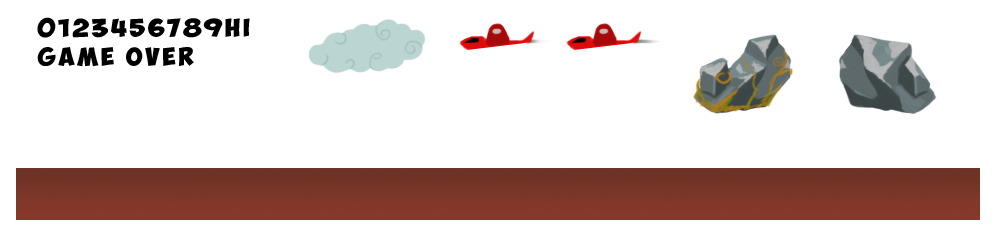
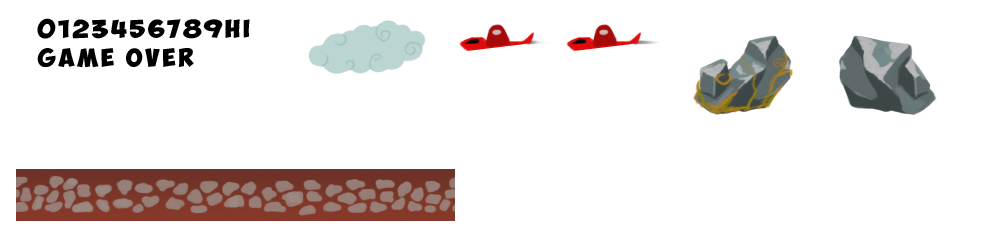
updated biker sprite

diff --git a/app/js/Biker.js b/app/js/Biker.js
@@ -2,7 +2,7 @@ class Biker extends Sprite {
 	constructor() {
 		super({
 			canvas: document.getElementById("biker-layer"),
-			imageSrc: "app/img/biker_002.png",
+			imageSrc: "app/img/biker_003.png",
 			width: 100,
 			height: 100,
 			initialPosition: {
@@ -43,9 +43,9 @@ class Biker extends Sprite {
 				noRepeat: true
 			},
 			crash: {
-				numberOfFrames: 8,
-				ticksPerFrame: 7,
-				frameRow: 2,
+				numberOfFrames: 9,
+				ticksPerFrame: 4,
+				frameRow: 3,
 				noRepeat: true
 			}
 		};

diff --git a/app/js/Obstacle.js b/app/js/Obstacle.js
@@ -2,7 +2,7 @@ class Obstacle extends Sprite {
 	constructor() {
 		super({
 			canvas: document.getElementById("background-layer"),
-			imageSrc: "app/img/rock.png",
+			imageSrc: "app/img/environment_sheet.png",
 			width: 100,
 			height: 134,
 			initialPosition: {
